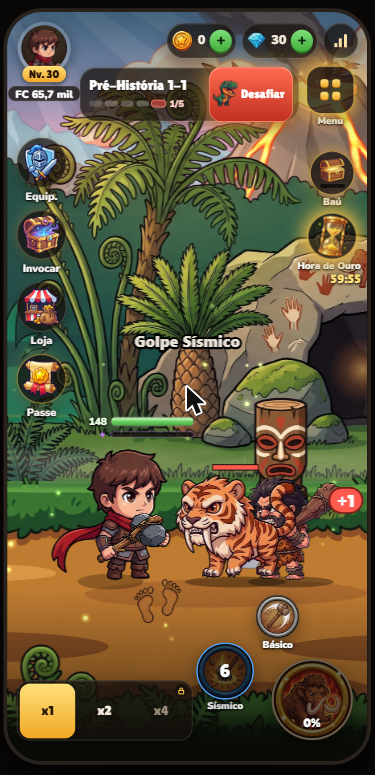
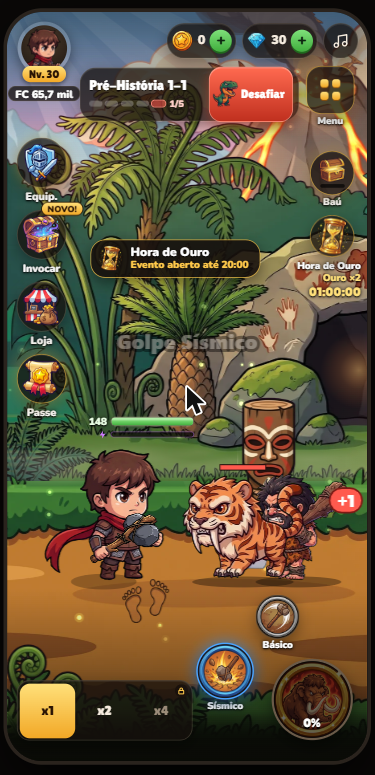
Engenheiro 6: drop por raridade lendo a tabela única (Sys.stats.dropFx, com o Divino; chave desligada), chaves para o voto no Modo dono, atalhos das asas novas e do arco/bumerangue, bônus do evento no rótulo do ícone, normItem mantém o tipo de asa nova
Visto no navegador pelo engenheiro. A chave do HUD dos eventos ligada por padrão e o módulo newdrops entram com o index.html, no próximo commit consistente.

diff --git a/js/artprev.js b/js/artprev.js
@@ -39,6 +39,34 @@ const TB = [
   { g: 'Armas de fogo e nível', c: [gun(3, 'Pistola (era 3)'), gun(4, 'Revólver (era 4)'), gun(5, 'Pistola (era 5)'), gun(6, 'Pistola (era 6)'),
     { t: 'Subir de nível', s: [['Nível +1', [KI, A + 'fx/levelup'], { once: 1 }]] }] },
 ];
+/* ================= CHAVES PARA O VOTO DO DONO (Engenheiro 6, v0.12.9) =================
+   Tudo que espera voto fica DESLIGADO no jogo. Aqui, SÓ no Modo dono, cada coisa ganha um botão liga/desliga com o estado escrito no botão.
+   A escolha fica no save do Modo dono (S.ownerKeys, chave eras_owner_v1; o save real nunca é lido nem escrito aqui) e é reaplicada quando o Modo dono
+   abre de novo. Fora do Modo dono nada disto roda: sair do Modo dono recarrega a página e cada chave nasce no padrão do arquivo dela.
+   Tabela: k (id) · t (rótulo) · get() (estado real, lido do módulo dono) · set(on) (escreve no módulo dono, só em memória). Chave cujo módulo não
+   está carregado não ganha botão (get devolve null). */
+const KST = () => Sys.stats.DATA;
+const OWNER_KEYS = [
+  { k: 'fuse', t: 'Fusão', get: () => (window.Panels && Panels.defs && Panels.defs.fuse && KST().quality) ? (Panels.on('fuse') && KST().quality.on === true) : null,
+    set: on => { KST().quality.on = on; if (on) Panels.enable('fuse'); else PANEL_ON.fuse = false; } },   /* PANEL_ON.fuse + Sys.stats.DATA.quality.on andam juntas; a entrada aparece na Forja */
+  { k: 'wings', t: 'Asas novas', get: () => (KST().wingTypes && 'newWings' in KST()) ? KST().newWings === true : null, set: on => { KST().newWings = on; } },
+  { k: 'bow', t: 'Arco e Bumerangue', get: () => { const W = KST().weaponTypes; return W && W.bow && W.boomerang ? (W.bow.on === true && W.boomerang.on === true) : null; },
+    set: on => { KST().weaponTypes.bow.on = on; KST().weaponTypes.boomerang.on = on; } },
+  /* Ultimates lendárias: a chave é da batalha (js/battle.js, Engenheiro 5), combinada pelo nome window.ULT_LEGEND_ON. Lê o nome como a batalha lê; escreve em
+     window.ULT_LEGEND_ON. Enquanto a batalha declarar a chave como constante, a escrita não pega: o botão continua mostrando o estado REAL e avisa. */
+  { k: 'ult', t: 'Ultimates lendárias', get: () => { try { return typeof ULT_LEGEND_ON !== 'undefined' ? ULT_LEGEND_ON === true : window.ULT_LEGEND_ON === true; } catch (e) { return window.ULT_LEGEND_ON === true; } },
+    set: on => { try { window.ULT_LEGEND_ON = on; } catch (e) {} } },
+  { k: 'pets', t: 'Pets e montarias novos', get: () => (Sys.pet && Sys.mount && 'newPets' in Sys.pet.DATA && 'newOn' in Sys.mount.DATA) ? (Sys.pet.DATA.newPets === true && Sys.mount.DATA.newOn === true) : null,
+    set: on => { Sys.pet.DATA.newPets = on; Sys.mount.DATA.newOn = on; } },
+  { k: 'drops', t: 'Entregas dos itens novos', get: () => (Sys.newDrops && Sys.newDrops.DATA) ? Sys.newDrops.DATA.on === true : null, set: on => { Sys.newDrops.DATA.on = on; } },
+  /* o HUD dos eventos com horário (SCREENS_ON.evHud) saiu daqui: ligado por padrão por decisão do PO/dono (13/11) */
+];
+const keyGet = K => { try { return K.get(); } catch (e) { return null; } };
+function keySet(K, on){ try { K.set(!!on); } catch (e) { console.error('chave ' + K.k, e); } return keyGet(K) === !!on; }
+/* reaplica as escolhas guardadas no save do Modo dono (só com OWNER_MODE; chamada uma vez, na carga) */
+function keysBoot(){ if (!OWNER_MODE) return; const o = S.ownerKeys; if (!o || typeof o !== 'object') return; for (const K of OWNER_KEYS) if (typeof o[K.k] === 'boolean' && keyGet(K) !== null && keyGet(K) !== o[K.k]) keySet(K, o[K.k]); }
+const WING_NEW = ['phoenix', 'ice', 'shadow', 'storm', 'mechanical', 'bone', 'seraph', 'darkmoth'];
+const WING_SHORT = { phoenix: 'Fênix', ice: 'Gelo', shadow: 'Sombra', storm: 'Tempestade', mechanical: 'Mecânicas', bone: 'Ossos', seraph: 'Serafim', darkmoth: 'Mariposa' };
 const UI = { open: null, st: 0, layers: null, raf: 0, t0: 0, tok: 0 };
 const esc = s => String(s).replace(/[&<>"]/g, c => ({ '&': '&amp;', '<': '&lt;', '>': '&gt;', '"': '&quot;' }[c]));
 function loadLayer(L){ const png = typeof L === 'string' ? L + '.png' : L.png, json = typeof L === 'string' ? L + '.json' : L.json;
@@ -88,7 +116,12 @@ function ownerHtml(){
   return `<div style="padding:12px;border-radius:16px;background:#241b14;border:2px solid #ffc94a;margin-bottom:12px"><div style="font:400 18px 'Lilita One',Nunito,sans-serif;color:#ffc94a">Modo dono ligado</div>
     <div style="font-size:12.5px;color:#c9b9a2;margin:4px 0 10px">Este é o jogo de teste. Todas as telas que existem estão liberadas.</div>
     <div style="display:grid;grid-template-columns:1fr 1fr;gap:8px">${b('lv20', 'Ir para o nível 20')}${b('lv32', 'Ir para o nível 32')}${b('lv50', 'Ir para o nível 50')}${b('lv70', 'Ir para o nível 70')}${b('wingangel', 'Asa de anjo')}${b('wingdemon', 'Asa demoníaca')}${typeof petOk === 'function' && petOk() ? b('egg', 'Ganhar ovo') : ''}${b('era', 'Avançar era')}${b('hero_kael', 'Herói: Kael')}${b('hero_kaia', 'Herói: Kaia')}${b('scn7', 'Cenário: Submundo')}${b('scn8', 'Cenário: Celestial')}${b('scn', 'Cenário da era atual')}${b('stones', '+500 pedras de forja')}${b('gold', '+1 milhão de ouro')}${b('gems', '+5.000 gemas')}</div>
-    ${typeof mountOk === 'function' && mountOk() ? '<div style="font:900 12px Nunito,sans-serif;color:#c9b9a2;margin:10px 0 6px">MONTARIAS</div><div style="display:grid;grid-template-columns:1fr 1fr 1fr;gap:8px">' + mountIds().map(m => b('mt_' + m.id, m.name)).join('') + b('mtstar', 'Estrela +1') + b('mtstar0', 'Estrela -1') + b('mtoff', 'Desmontar') + '</div>' : ''}
+    ${typeof mountOk === 'function' && mountOk() ? '<div style="font:900 12px Nunito,sans-serif;color:#c9b9a2;margin:10px 0 6px">MONTARIAS</div><div style="display:grid;grid-template-columns:repeat(3,minmax(0,1fr));gap:8px">' + mountIds().map(m => b('mt_' + m.id, m.name)).join('') + b('mtstar', 'Estrela +1') + b('mtstar0', 'Estrela -1') + b('mtoff', 'Desmontar') + '</div>' : ''}
+    <div style="font:900 12px Nunito,sans-serif;color:#c9b9a2;margin:12px 0 2px">CHAVES PARA O VOTO</div>
+    <div style="font-size:12px;color:#c9b9a2;margin:0 0 6px">Liga e desliga o que ainda espera o seu voto. Vale só neste jogo de teste; ao sair do modo dono tudo volta ao padrão.</div>
+    <div style="display:grid;grid-template-columns:1fr 1fr;gap:8px">${OWNER_KEYS.map(K => { const v = keyGet(K); return v === null ? '' : `<button data-o="key_${K.k}" aria-pressed="${v}" style="${btn};min-height:52px;line-height:1.15;${v ? 'background:linear-gradient(180deg,#ffe07a,#f2a826);color:#2a1403;border-color:#8a4f0c' : ''}">${K.t}<br><span style="font-size:11.5px">${v ? 'LIGADA' : 'DESLIGADA'}</span></button>`; }).join('')}</div>
+    ${KST().wingTypes ? '<div style="font:900 12px Nunito,sans-serif;color:#c9b9a2;margin:10px 0 6px">ASAS NOVAS (ganhar e equipar)</div><div style="display:grid;grid-template-columns:minmax(0,1fr) minmax(0,1fr);gap:8px">' + WING_NEW.filter(w => KST().wingTypes[w]).map(w => `<button data-o="wg_${w}" aria-label="${esc(KST().wingTypes[w].name)}: ganhar e equipar" style="${btn}">${WING_SHORT[w]}</button>`).join('') + '</div>' : ''}
+    ${KST().weaponTypes && KST().weaponTypes.bow ? '<div style="font:900 12px Nunito,sans-serif;color:#c9b9a2;margin:10px 0 6px">ARMAS NOVAS (ganhar e equipar)</div><div style="display:grid;grid-template-columns:1fr 1fr;gap:8px">' + b('wt_bow', 'Arco e flecha') + b('wt_boomerang', 'Bumerangue') + '</div>' : ''}
     <button data-o="exit" style="${btn};width:100%;margin-top:10px">Sair do modo dono (volta ao seu jogo)</button></div>`; }
 function paint(){ const el = document.getElementById('apv'); if (!el) return;
   if (UI.open){ const card = TB[UI.open[0]].c[UI.open[1]], L = UI.layers;
@@ -108,6 +141,17 @@ function ownerAct(k){
   else if (k === 'wingangel' || k === 'wingdemon'){ const w = k === 'wingangel' ? 'angel' : 'demon';   /* as duas asas são ITENS distintos (item.wing) */
     try { let it = S.inv.find(i => i.slot === 'wing' && i.wing === w); if (!it){ Sys.host.addItem({ slot: 'wing', r: 2, e: Math.min(6, S.eraMax | 0), lvl: 1, wing: w }); it = S.inv[S.inv.length - 1]; if (it && it.slot === 'wing' && it.wing !== w) it.wing = w; }
       if (it && it.slot === 'wing'){ S.eq.wing = it.id; toast(w === 'angel' ? 'Asa de anjo equipada' : 'Asa demoníaca equipada'); } } catch (e) { toast('Não deu para criar a asa'); } }
+  else if (k.indexOf('key_') === 0){ const K = OWNER_KEYS.find(x => x.k === k.slice(4)), cur = K ? keyGet(K) : null; if (cur === null){ toast('Chave indisponível'); return; }   /* Engenheiro 6: chaves para o voto (só Modo dono; guardadas em S.ownerKeys do save de teste) */
+    const want = !cur, ok = keySet(K, want); if (!S.ownerKeys || typeof S.ownerKeys !== 'object') S.ownerKeys = {};
+    if (ok){ S.ownerKeys[K.k] = want; toast(K.t + ': ' + (want ? 'ligada' : 'desligada')); } else toast(K.t + ': a chave ainda é fixa no arquivo da batalha');
+    if (typeof refreshHero === 'function') refreshHero(); if (typeof preloadAssets === 'function') preloadAssets(); statsChanged(); if (typeof fbLayout === 'function') fbLayout(); paint(); return; }
+  else if (k.indexOf('wg_') === 0){ const w = k.slice(3), W = KST().wingTypes && KST().wingTypes[w]; if (!W){ toast('Asa indisponível'); return; }   /* as 8 asas novas: item de asa com o modelo (item.wing), na raridade em que o modelo cai */
+    try { let it = S.inv.find(i => i.slot === 'wing' && i.wing === w); if (!it){ const n0 = S.nextId; Sys.host.addItem({ slot: 'wing', r: Math.min(4, W.r | 0), e: Math.min(6, S.eraMax | 0), lvl: 1, wing: w }); it = S.inv.find(i => i.id === n0 && i.slot === 'wing'); if (it && it.wing !== w) it.wing = w; }
+      if (it){ S.eq.wing = it.id; if (typeof preloadAssets === 'function') preloadAssets(); toast(W.name + ' equipada' + (KST().newWings === true ? '' : '. Ligue a chave Asas novas para ver o desenho')); } else toast('Não deu para criar a asa (mochila cheia)'); } catch (e) { toast('Não deu para criar a asa'); } }
+  else if (k.indexOf('wt_') === 0){ const t = k.slice(3), W = KST().weaponTypes && KST().weaponTypes[t]; if (!W){ toast('Arma indisponível'); return; }   /* arco e bumerangue: arma com a família gravada (item.wt), na raridade e no nível da arma equipada */
+    try { const cur = S.eq.weapon != null ? itemOf(S.eq.weapon) : null; let it = S.inv.find(i => i.slot === 'weapon' && i.wt === t);
+      if (!it){ const n0 = S.nextId; Sys.host.addItem({ slot: 'weapon', r: cur ? cur.r | 0 : 2, e: Math.max(W.fromEra | 0, Math.min(6, cur ? cur.e | 0 : S.eraMax | 0)), lvl: 1, wt: t }); it = S.inv.find(i => i.id === n0 && i.slot === 'weapon'); if (it){ it.wt = t; it.lvl = Math.max(1, cur ? cur.lvl | 0 : 1); } }
+      if (it){ S.eq.weapon = it.id; if (typeof refreshHero === 'function') refreshHero(); if (typeof preloadAssets === 'function') preloadAssets(); toast(W.name + ' equipado' + (W.on === true ? '' : '. Ligue a chave Arco e Bumerangue para ver o golpe')); } else toast('Não deu para criar a arma (mochila cheia)'); } catch (e) { toast('Não deu para criar a arma'); } }
   else if (k.indexOf('mt_') === 0){ const r = mountGive(k.slice(3)); toast(r && r.ok === false ? 'Montaria indisponível' : 'Montaria equipada'); }
   else if (k === 'mtstar' || k === 'mtstar0'){ const n = mountStar(k === 'mtstar' ? 1 : -1); toast(n ? n + ' estrela(s)' : 'Sem montaria equipada'); }
   else if (k === 'mtoff'){ mountOff(); toast('A pé'); }
@@ -131,6 +175,7 @@ function onClick(ev){ const b = ev.target.closest('button'); if (!b) return; snd
 Screens.register('artprev', { title: 'Teste',
   render(el){ if (document.getElementById('apv')) return; el.innerHTML = '<div id="apv" style="padding:12px;height:100%;box-sizing:border-box;overflow-y:auto;-webkit-overflow-scrolling:touch;font-family:Nunito,system-ui,sans-serif"></div>'; document.getElementById('apv').addEventListener('click', onClick); paint(); },
   onOpen(){ UI.open = null; }, onClose(){ freeLayers(); UI.open = null; } });
+keysBoot();   /* Modo dono: reaplica as chaves do voto guardadas no save de teste */
 /* item do MENU, fora da regra de nível (sem entrada em FB_UNLOCK) */
 if (typeof FB_DROP !== 'undefined') FB_DROP.push({ id: 'artprev', icon: 'settings', label: 'Teste', act: 'soon:artprev', tag: OWNER_MODE ? 'Dono' : 'Arte' });
 /* selo fixo "MODO DONO" no topo, o tempo todo */

diff --git a/js/evhud.js b/js/evhud.js
@@ -1,7 +1,9 @@
 'use strict';
-/* ================= EVENTOS COM HORÁRIO NO HUD DA BATALHA (Engenheiro 6, v0.12.9) — ATRÁS DA CHAVE SCREENS_ON.evHud (index.html) =================
-   Chave DESLIGADA por padrão: com ela desligada este arquivo só define funções, o ícone não é desenhado e nada muda no jogo.
-   Para conferir: ?debug=1&ev=1, ou o botão "Eventos com horário" do Modo dono (js/artprev.js).
+/* ================= EVENTOS COM HORÁRIO NO HUD DA BATALHA (Engenheiro 6, v0.12.9) — CHAVE SCREENS_ON.evHud (index.html) =================
+   Chave LIGADA por padrão (decisão do PO/dono, 13/11: o bônus do evento já vale no abate pelo Sys.loot, e bônus sem aviso não pode).
+   Desliga só em debug com ?debug=1&ev=0: aí este arquivo só define funções, o ícone não é desenhado e nada muda no jogo.
+   BÔNUS NO RÓTULO: entre o nome e a contagem vai o bônus do evento aberto ("Ouro ×2", "Drop +50%"), lido dos perks que o Sys.schedule.active devolve
+   (os mesmos números que o Sys.loot aplica e devolve em res.event); evento sem bônus (Chefe Mundial) não mostra a linha. Nenhum número é daqui.
    Fonte ÚNICA de regra e de hora: Sys.schedule (js/sys/schedule.js, de Sistemas). Aqui NÃO há conta de fuso: a hora "até HH:MM" sai do
    Sys.schedule._br(instante) (minuto do dia em Brasília, do próprio módulo) e a contagem sai do msLeft/msToStart que o módulo devolve.
    (a) ÍCONE: entrada 'event' no FB_MENU (coluna direita, abaixo do Baú). Só existe enquanto há evento aberto que o nível do jogador permite;
@@ -39,6 +41,9 @@ const evhLvOk = a => (typeof OWNER_MODE !== 'undefined' && OWNER_MODE) || fbLvl(
 function evhCount(ms){ const s = Math.max(0, Math.ceil(ms / 1000)), h = Math.floor(s / 3600), m = Math.floor(s % 3600 / 60); return (h ? evhP2(h) + ':' : '') + evhP2(m) + ':' + evhP2(s % 60); }
 /* "HH:MM" de Brasília pelo módulo; se o instante cai em outro dia (torneio de fim de semana), o dia da semana vai junto */
 function evhHM(t, ref){ const b = Sys.schedule._br(t), r = Sys.schedule._br(ref), hm = evhP2(Math.floor(b.min / 60)) + ':' + evhP2(b.min % 60); return b.dayStart !== r.dayStart ? EVH_DAY[b.day] + ' ' + hm : hm; }
+/* bônus do evento em texto curto, só com os números do módulo: múltiplo inteiro de 100% vira "×N"; o resto, "+N%" */
+const EVH_PERK = [['goldPct', 'Ouro'], ['dropPct', 'Drop'], ['foodPct', 'Ração'], ['forgePct', 'Pedras'], ['arenaPct', 'Arena'], ['petFragPct', 'Frag. de pet']];
+function evhPerk(a){ const p = a && a.perks; if (!p) return ''; const out = []; for (const [k, n] of EVH_PERK){ const v = +p[k]; if (v > 0) out.push(n + (v % 100 === 0 ? ' ×' + (1 + v / 100) : ' +' + String(v).replace('.', ',') + '%')); } return out.slice(0, 2).join(' · '); }
 const evhShown = () => EVH.shown;
 /* a tela de Eventos está pronta e liberada para este jogador? (mesmas regras do MENU) */
 const evhCanOpen = () => !!(Screens.reg && Screens.reg.events && !Screens.reg.events.broken && fbPanelOn('events') && fbUnl('events'));
@@ -53,6 +58,7 @@ function evhCss(){ const st = document.createElement('style'); st.textContent = 
 #fbm_event .fb-ib::after{box-shadow:0 0 18px 5px rgba(255,201,74,.95);animation-duration:1.1s}
 #fbm_event .fb-lb{align-self:flex-end;display:flex;flex-direction:column;align-items:flex-end;gap:1px;width:96px;margin-top:2px;white-space:normal;text-align:right}
 #fb_evn{font-size:10.5px;line-height:12px}   /* nome inteiro, alinhado à direita, em até 2 linhas (Torneio de Fim de Semana) */
+#fb_evp{font-size:10.5px;line-height:12px;color:#ffe07a}#fb_evp:empty{display:none}
 #fb_evt{font-family:'Lilita One',Nunito,sans-serif;font-weight:400;font-size:13px;line-height:14px;color:#ffe07a;letter-spacing:.02em}
 #fb_evband{position:absolute;left:182px;top:246px;transform:translateX(-50%);z-index:5;display:none;align-items:center;gap:7px;max-width:214px;padding:5px 12px 5px 6px;border-radius:16px;box-sizing:border-box;background:rgba(22,16,12,.9);border:1px solid rgba(255,201,74,.75);box-shadow:0 6px 16px rgba(0,0,0,.45);color:#fff}
 #fb_evband.on{display:flex;animation:evhin .28s cubic-bezier(.2,.9,.25,1) both}
@@ -67,7 +73,7 @@ function evhCss(){ const st = document.createElement('style'); st.textContent = 
 `; document.head.appendChild(st); }
 /* monta as duas linhas do rótulo (nome + contagem) e a faixa, uma vez, depois que o HUD existe */
 function evhMount(){ if (document.getElementById('fb_evband')) return true; const w = document.getElementById('fb_w'), lb = document.getElementById('fbl_event'); if (!w || !lb) return false;
-  lb.innerHTML = '<span id="fb_evn"></span><span id="fb_evt"></span>';
+  lb.innerHTML = '<span id="fb_evn"></span><span id="fb_evp"></span><span id="fb_evt"></span>';
   const d = document.createElement('div'); d.id = 'fb_evband'; d.setAttribute('role', 'status'); d.setAttribute('aria-live', 'polite'); d.style.pointerEvents = 'none';
   d.innerHTML = '<img id="fb_evbi" alt=""><div style="min-width:0"><div class="m" id="fb_evbm"></div><div class="t" id="fb_evbt"></div></div>'; w.appendChild(d); return true; }
 function evhBandHide(now){ const d = document.getElementById('fb_evband'); if (d && EVH.band){ d.classList.remove('on'); d.classList.add('out'); setTimeout(() => { if (!EVH.band) d.classList.remove('out'); }, 360); } EVH.band = null; EVH.bandUntil = now + 600; }
@@ -89,8 +95,8 @@ function evhTick(){
   const on = act.length > 0; if (EVH.shown !== on){ EVH.shown = on; fbLayout(); }
   if (on){ const a = act[Math.floor(now / 4000) % act.length]; EVH.cur = a;
     { const u = evhIcon(a); if (FBK.evIc !== u){ FBK.evIc = u; const im = document.querySelector('#fbm_event .fb-ico'); if (im) im.src = u; } }
-    fbSet('fb_evn', a.name); fbSet('fb_evt', evhCount(a.msLeft));
-    if (FBK.evAl !== a.id){ FBK.evAl = a.id; const b = document.getElementById('fbm_event'); if (b) b.setAttribute('aria-label', 'Evento aberto: ' + a.name + '. Abrir Eventos'); } }
+    fbSet('fb_evn', a.name); fbSet('fb_evp', evhPerk(a)); fbSet('fb_evt', evhCount(a.msLeft));
+    if (FBK.evAl !== a.id){ FBK.evAl = a.id; const b = document.getElementById('fbm_event'); if (b) b.setAttribute('aria-label', 'Evento aberto: ' + a.name + (evhPerk(a) ? ', ' + evhPerk(a) : '') + '. Abrir Eventos'); } }
   else EVH.cur = null;
   /* faixa: evento que abriu (uma vez por janela) e aviso de 10 min (uma vez por janela) entram na fila */
   for (const a of act) if (!seen.b[a.key]){ evhMark('b', a.key, t); seen.n[a.key] = 1; EVH.q.push({ kind: 'b', a }); }

diff --git a/js/rarity.js b/js/rarity.js
@@ -48,24 +48,37 @@ function rarInit(){ if (!RAR_ON()) return; const app = document.getElementById('
   rarDecorate(app); }
 
 /* ---------- drop no chão da batalha ---------- */
-function rarSnd(r){ if (!RAR_ON() || !S.set.sound) return;
-  if (r === 2) snd('gem');
-  else if (r === 3){ const g = window.GameAudio; if (g && g.sfx){ try { g.sfx('legendary', { rate: 0.89 }); } catch (e) {} } else snd('legendary'); } }   // Lendário (4): o addItemToBag já toca 'legendary'
+/* TABELA ÚNICA (Engenheiro 6, v0.12.9): o efeito do drop sai de Sys.stats.dropFx(r) (js/sys/stats.js, de Sistemas): {color, glow, particles, beam, pulse,
+   sound:{id, rate}, prism}. Sem o módulo vale a tabela daqui (reserva = os mesmos números de antes, só até o Lendário). Básico→Lendário desenham
+   EXATAMENTE como antes (mesma cor, mesmo feixe de 62 px do Mítico para cima, mesmas partículas a partir do Épico); o Divino (r 5) é o acréscimo:
+   feixe ARCO-ÍRIS (prism), mais largo, com mais partículas. Como a tabela é lida:
+   color → cor de tudo · beam (px lógicos; 0 = sem feixe) → altura do feixe · particles (0 = sem; < 10 = ritmo do Épico; >= 10 = ritmo do Mítico e
+   do Lendário; acima de 16 cresce na proporção) → partículas subindo · prism → feixe e partículas em arco-íris · sound → rarSnd. */
+const RAR_FXC = {};
+function rarFx(r){ r = Math.max(0, r | 0); if (RAR_FXC[r]) return RAR_FXC[r]; let f = null;
+  try { if (window.Sys && Sys.stats && typeof Sys.stats.dropFx === 'function'){ const x = Sys.stats.dropFx(r); if (x && typeof x.color === 'string') f = x; } } catch (e) {}
+  if (!f){ const k = Math.min(4, r); f = { r: k, color: RAR_C[k], glow: RAR_GLOW[k], particles: k >= 3 ? 10 : k === 2 ? 6 : 0, beam: k >= 3 ? 62 : 0, pulse: k >= 3 ? 1.6 : 0, sound: k === 2 ? { id: 'gem', rate: 1 } : k === 3 ? { id: 'legendary', rate: 0.9 } : k === 4 ? { id: 'legendary', rate: 1 } : null, prism: false }; }
+  return RAR_FXC[r] = f; }
+/* som do drop pela tabela. Lendário para cima não toca aqui: o addItemToBag (js/farm.js) já toca 'legendary' em todo item r >= 4 (tocar de novo dobraria) */
+function rarSnd(r){ if (!RAR_ON() || !S.set.sound) return; const f = rarFx(r), sd = f.sound; if (!sd || (f.r | 0) >= 4) return;
+  const g = window.GameAudio; if (sd.rate && sd.rate !== 1 && g && g.sfx){ try { g.sfx(sd.id, { rate: sd.rate }); } catch (e) {} } else snd(sd.id); }
 /* chamado com o contexto já transladado para o ponto do drop (q.x, q.y); s = tamanho; ph = fase da animação. st 0 pulando · 1 no chão · 2 voando para a mochila */
-function rarDrop(q, p, s, ph){ const r = Math.max(0, Math.min(4, p.r | 0)), c = RAR_C[r], ground = q.st < 2, pulse = 0.5 + 0.5 * Math.sin(ph);
-  if (ground && r >= 3){ const H = 62 * PX, w = (r === 4 ? 9 : 7) * s, gy = (GY - q.y);   // FEIXE: do chão (GY) para cima, mais claro no meio, some no topo
+function rarDrop(q, p, s, ph){ const f = rarFx(p.r), r = f.r | 0, c = f.color, ground = q.st < 2, pulse = 0.5 + 0.5 * Math.sin(ph);
+  if (ground && f.beam > 0){ const H = f.beam * PX, w = (r >= 5 ? 11 : r === 4 ? 9 : 7) * s, gy = (GY - q.y);   // FEIXE: do chão (GY) para cima, mais claro no meio, some no topo
     ctx.save(); ctx.globalCompositeOperation = 'lighter';
-    const g = ctx.createLinearGradient(0, gy, 0, gy - H); g.addColorStop(0, c); g.addColorStop(0.55, c + '88'); g.addColorStop(1, c + '00');
+    const g = ctx.createLinearGradient(0, gy, 0, gy - H);
+    if (f.prism){ const N = 6; for (let i = 0; i <= N; i++){ const k = i / N; g.addColorStop(k, 'hsla(' + Math.round((k * 300 + ph * 14) % 360) + ',100%,62%,' + (1 - k * k).toFixed(2) + ')'); } }   // Divino: as cores do arco-íris sobem pelo feixe
+    else { g.addColorStop(0, c); g.addColorStop(0.55, c + '88'); g.addColorStop(1, c + '00'); }
     ctx.globalAlpha = 0.55 + 0.25 * pulse; ctx.fillStyle = g; ctx.fillRect(-w, gy - H, w * 2, H);
     const g2 = ctx.createLinearGradient(0, gy, 0, gy - H); g2.addColorStop(0, '#ffffff'); g2.addColorStop(0.5, '#ffffff66'); g2.addColorStop(1, '#ffffff00');
     ctx.globalAlpha = 0.6 + 0.3 * pulse; ctx.fillStyle = g2; ctx.fillRect(-w * 0.3, gy - H, w * 0.6, H);
     ctx.restore();
     ctx.save(); ctx.globalAlpha = 0.5; ctx.fillStyle = c; ctx.beginPath(); ctx.ellipse(0, gy, w * 1.6, 2.4, 0, 0, 7); ctx.fill(); ctx.restore(); }
-  drawGlow(c, 0, -2, (11 + 2.5 * r + 2 * pulse) * s, 0.55 + 0.1 * r);                               // brilho na cor da raridade (todos)
-  if (ground && r >= 2 && Math.random() < (r >= 3 ? 0.35 : 0.2)) emit({ x: q.x + (Math.random() - .5) * 12, y: q.y - 2, vx: (Math.random() - .5) * 10, vy: -26 - Math.random() * 34, g: 0, t: 0, life: 0.7 + Math.random() * 0.3, col: c, sz: 2 + Math.random() * 1.5, glow: true });   // partículas subindo (Épico+)
+  drawGlow(c, 0, -2, (11 + 2.5 * r + 2 * pulse) * s, Math.min(1, 0.55 + 0.1 * r));                               // brilho na cor da raridade (todos)
+  if (ground && f.particles > 0 && Math.random() < (f.particles >= 10 ? 0.35 * Math.max(1, f.particles / 16) : 0.2)) emit({ x: q.x + (Math.random() - .5) * 12, y: q.y - 2, vx: (Math.random() - .5) * 10, vy: -26 - Math.random() * 34, g: 0, t: 0, life: 0.7 + Math.random() * 0.3, col: f.prism ? 'hsl(' + Math.floor(Math.random() * 360) + ',100%,70%)' : c, sz: 2 + Math.random() * 1.5, glow: true });   // partículas subindo (Épico+)
   ctx.fillStyle = '#2a211a'; ctx.strokeStyle = c; ctx.lineWidth = 2.2; ctx.beginPath(); if (ctx.roundRect) ctx.roundRect(-6 * s, -8 * s, 12 * s, 12 * s, 3); else ctx.rect(-6 * s, -8 * s, 12 * s, 12 * s); ctx.fill(); ctx.stroke();   // o item: caixinha com a borda na cor
   ctx.fillStyle = c; ctx.fillRect(-1.2 * s, -6 * s, 2.4 * s, 8 * s); ctx.fillRect(-3.5 * s, -0.5 * s, 7 * s, 1.8 * s);
 }
-/* debug: solta no chão um drop de cada raridade pedida (sem dar item). dbgDrops([0,1,2,3,4]) */
+/* debug: solta no chão um drop de cada raridade pedida (sem dar item). dbgDrops([0,1,2,3,4,5]) (5 = Divino, só o efeito) */
 window.dbgDrops = function(list){ if (!DEBUG || typeof PK === 'undefined') return; (list || [0, 1, 2, 3, 4]).forEach((r, i) => { PK.list.push({ p: { type: 'item', value: 1, r, to: 'bag', big: r >= 3 }, x: HX + 70 + i * 34, y: GY - 6, vx: 0, vy: 0, t: 0, st: 1, rt: 0, ft: 0, sx: 0, sy: 0, rest: 9999, sd: i }); rarSnd(r); }); return PK.list.length; };
 if (document.readyState === 'loading') document.addEventListener('DOMContentLoaded', rarInit); else setTimeout(rarInit, 0);

diff --git a/js/farm.js b/js/farm.js
@@ -13,7 +13,7 @@ function normItem(o){ const slot = SLOT[o.slot] ? o.slot : 'armor', r = Math.max
   /* Item da Temporada do passe (premium 27 e 30): season, targetR e seasonEnd precisam ficar no item, senão o Sys.pass.evolveSeason não o acha; look = era da aparência */
   if (o.season){ it.season = true; if (Number.isInteger(o.targetR)) it.targetR = o.targetR; if (o.seasonEnd != null) it.seasonEnd = o.seasonEnd; }
   if (Number.isInteger(o.look)) it.look = o.look;
-  if (o.wing === 'angel' || o.wing === 'demon') it.wing = o.wing;   // tipo da asa: a aparência é a do item
+  if (o.wing === 'angel' || o.wing === 'demon' || (typeof o.wing === 'string' && window.Sys && Sys.stats && Sys.stats.DATA.wingTypes && Sys.stats.DATA.wingTypes[o.wing])) it.wing = o.wing;   // tipo da asa: a aparência é a do item. Engenheiro 6: vale qualquer modelo da tabela Sys.stats.DATA.wingTypes (as 8 asas novas não perdem o tipo ao entrar na mochila; o desenho segue atrás da chave newWings)
   if (o.offer === true) it.offer = true;   // arma da oferta de 1ª compra: acompanha o nível e a era do jogador até o nível 25
   if (o.gotAt != null) it.gotAt = o.gotAt;
   if (typeof o.origin === 'string') it.origin = o.origin;   // origem do item (shop, gift, offer...): sem efeito visível; o servidor confere depois
@@ -111,6 +111,7 @@ function onLevelUp(lv){
   { const av = document.getElementById('fb_av'); if (av){ av.classList.remove('fb-cbump'); void av.offsetWidth; av.classList.add('fb-cbump'); } }
   B.lvfx = { t0: B.at }; sheetLoad(LVUP, true);
   if (typeof petLevel === 'function') petLevel(false);   // ovo do nível 20
+  try { if (window.Sys && Sys.newDrops && Sys.newDrops.DATA.on === true && typeof Sys.newDrops.releaseHeld === 'function') Sys.newDrops.releaseHeld(S, Sys.host); } catch (e) { console.error('newDrops.releaseHeld', e); }   /* Engenheiro 6: asas novas guardadas abaixo do nível das asas saem ao subir de nível; INERTE com Sys.newDrops.DATA.on desligada */
   if (typeof phaseCheck === 'function') phaseCheck(false);   // Kael por fase: níveis 22, 35 e 70
   if (typeof fcNotice === 'function') fcNotice();   // subir de nível muda a FC: o aviso de poder mostra a diferença   // animação aprovada de subir de nível (desenhada em js/battle.js, drawLevelUp)
   if (view !== 'battle' && typeof softRender === 'function') softRender();
